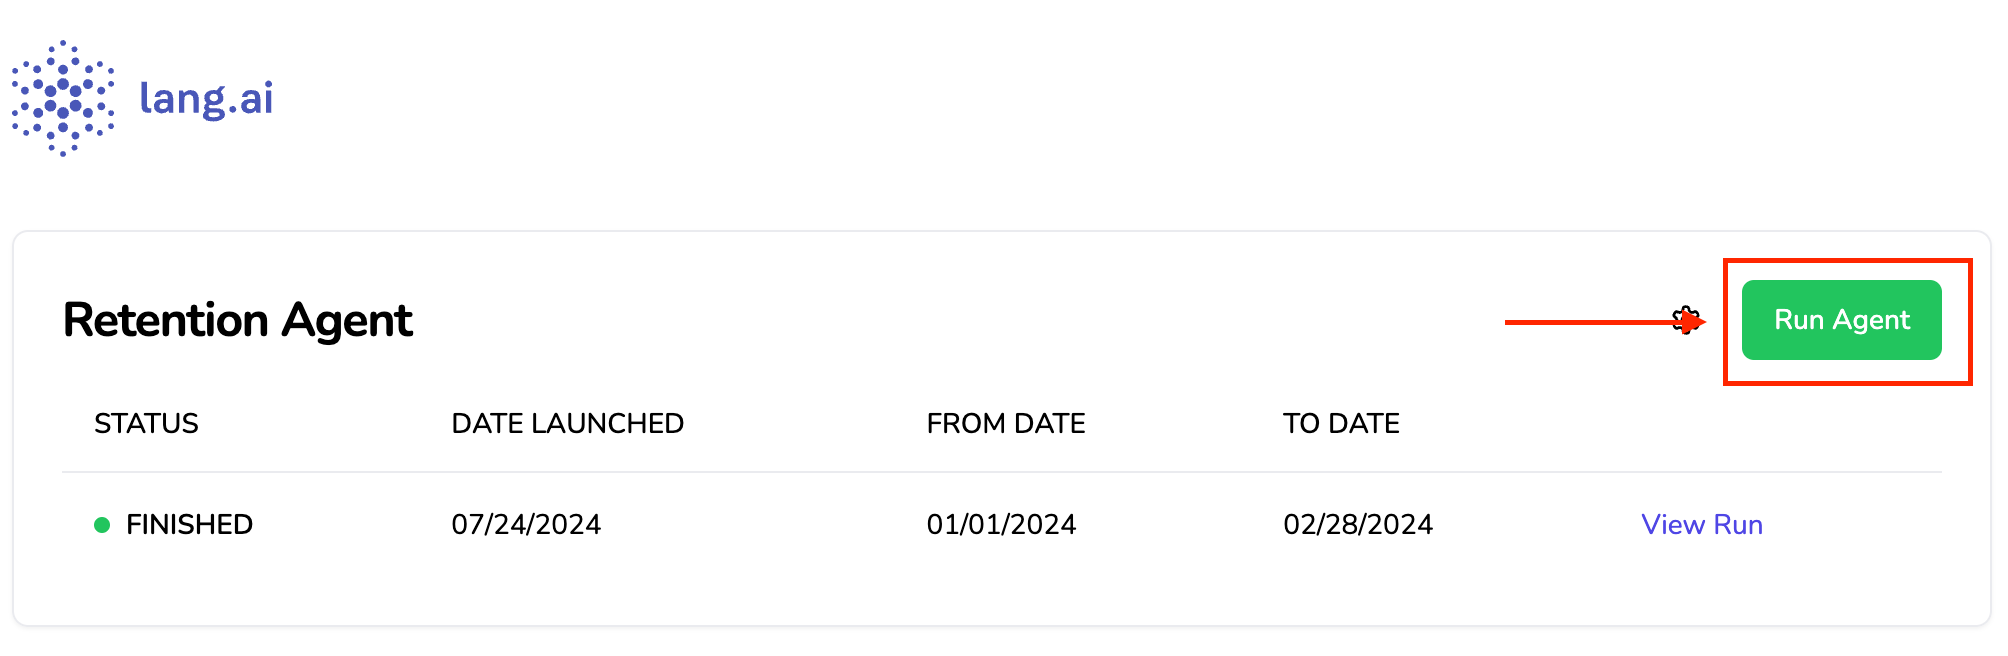
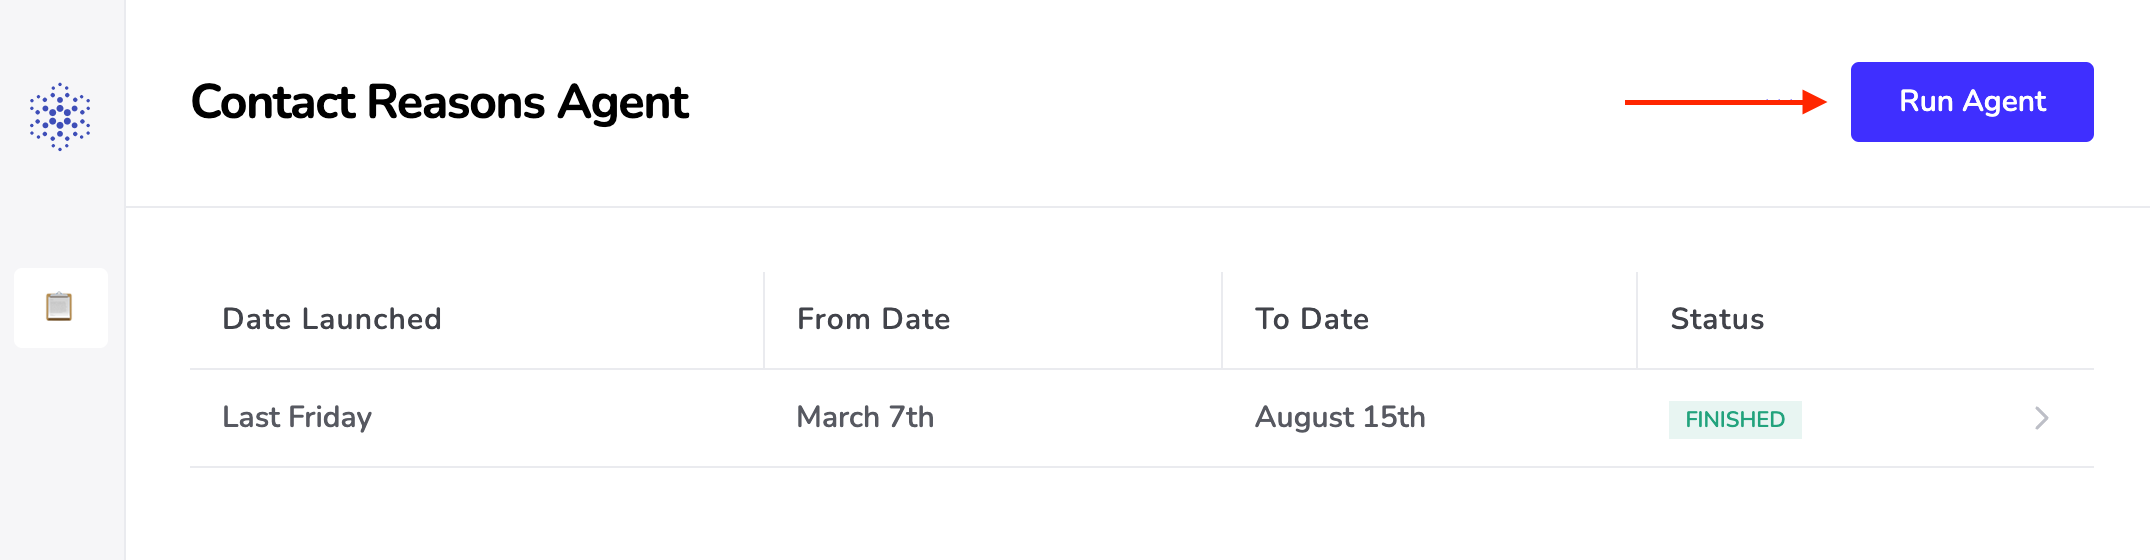
Update guide images, add link to marketplace listing

diff --git a/site/sfguides/src/create_ai_agents_on_snowflake_with_lang_ai/create_ai_agents_on_snowflake_with_lang_ai.md b/site/sfguides/src/create_ai_agents_on_snowflake_with_lang_ai/create_ai_agents_on_snowflake_with_lang_ai.md
@@ -145,7 +145,7 @@ Duration: 5
 Review the insights of the AI agent you just created.
 
 ### Navigate Your Agent Insights
-Once the agent has finished processing, click on **View Run** to see the generated insights. In the insights view, you can navigate through the data by sorting and searching.
+Once the agent has finished processing, click on table to see the generated insights. In the insights view, you can navigate through the data by sorting and searching.
 
 ![Navigate Your Agent Insights](assets/review_agent_insights.png)
 
@@ -164,8 +164,8 @@ Duration: 1
 By following this guide, you have successfully set up an AI Agent running on Snowflake to automate your data analysis tasks.
 
 ### Related Resources
-- [Lang.ai Documentation](https://help.lang.ai/en/articles/9584876-setting-up-the-snowflake-native-app)
-- [Creating AI Agents in Lang.ai](https://help.lang.ai/en/articles/9641461-creating-your-first-ai-agent)
+- [Marketplace Listing](https://app.snowflake.com/marketplace/listing/GZTSZ1TJ3IU/lang-ai-snowflake-ai-agents)
+- [Lang.ai Help Center](https://help.lang.ai/en/collections/9808378-build-your-first-ai-agent)
 
 ### What You Learned
 - How to set up the Lang.ai Snowflake Native App
